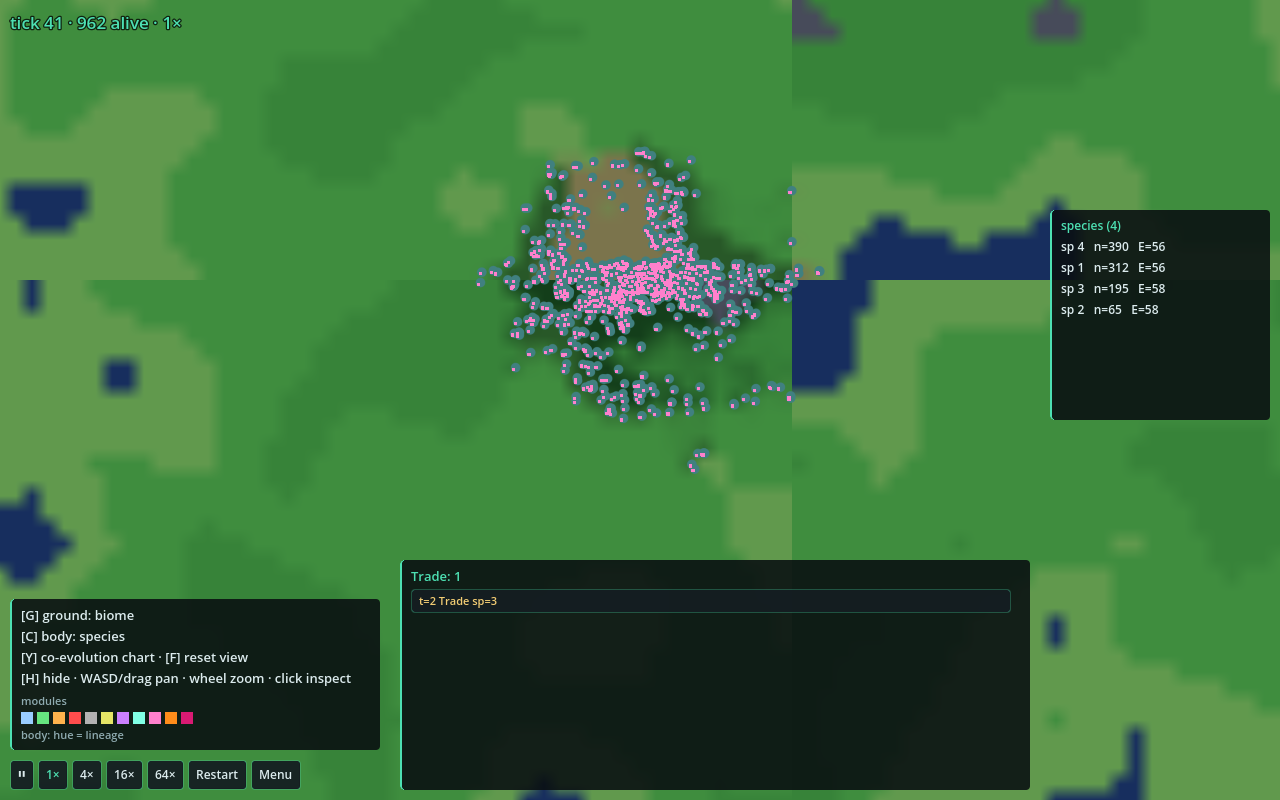
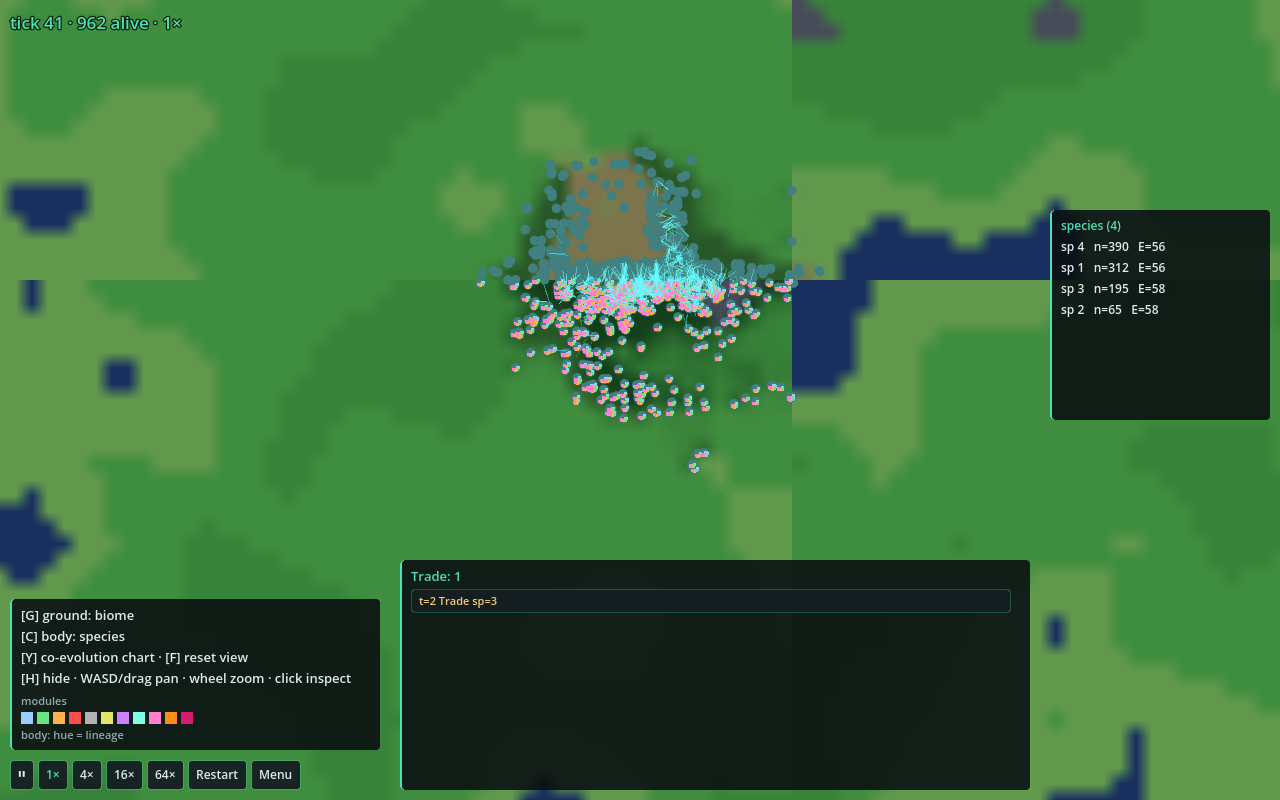
docs(gallery): trade-route captures for geographic-trade
Recapture the three geographic-trade shots with routes visible and add
a zoom-4 close-up of the border lanes at t=461. Document the routes
layer and that captures must run windowed (viewport readback after
frame_post_draw never completes on the headless dummy renderer).

Changed region(s): [[0.4062, 0.2188, 0.625, 0.5312]]

diff --git a/gallery/README.md b/gallery/README.md
@@ -8,7 +8,9 @@ exactly `ANABIOS_SHOT_TICKS + ANABIOS_SHOT_FRAMES (+1)` ticks — the Tick
 column below is the actual HUD tick in each shot. `ANABIOS_SEED` overrides
 the viewer's default seed (12345); geographic-trade is shot on its tuned
 scenario seed 424242 (its four-way terrain junction hub is seed-specific),
-the other scenarios on the viewer default.
+the other scenarios on the viewer default. Captures run windowed (not
+`--headless`): the harness reads the viewport texture after
+`frame_post_draw`, which never completes on the dummy renderer.
 
 ## geographic-trade (border-seeking terrain pull + marketplace trade reach)
 
@@ -16,14 +18,19 @@ Four goods species (Salt/Desert, Obsidian/Rock, Amber/Forest, Spice/Grass)
 spawn INTERMIXED in one cluster on a four-way terrain junction that straddles
 the torus seam at (948, 4); the `terrain_habitat` pull sorts them onto borders
 of their home terrain, where `TRADE_RANGE` 10.0 lets border neighbors
-transact. Capture env: `ANABIOS_SEED=424242 ANABIOS_CAM_X=948
-ANABIOS_CAM_Y=60 ANABIOS_CAM_ZOOM=2`. The ground and agent layers wrap across
-the seam, so the junction reads as one continuous landscape.
+transact. Successful swaps render as trade routes: thin links tinted by the
+initiating trader's hue, held on a 24-tick fading trail so recurring trades
+along species borders accumulate into visible lanes (thinner and dimmer than
+the 8-tick combat streaks). Capture env: `ANABIOS_SEED=424242
+ANABIOS_CAM_X=948 ANABIOS_CAM_Y=60 ANABIOS_CAM_ZOOM=2`. The ground and agent
+layers wrap across the seam, so the junction reads as one continuous
+landscape.
 
 | File | Tick | What you're seeing |
 |---|---|---|
-| geotrade-t041-mixed.png | 41 | Opening state: 962 agents of all four lineages intermixed in one swarm on the junction; the first cross-species `Trade` has already latched (t=2, sp3). |
+| geotrade-t041-mixed.png | 41 | Opening state: 962 agents of all four lineages intermixed in one swarm on the junction; the first cross-species `Trade` has already latched (t=2, sp3) and routes thread the swarm core. |
 | geotrade-t461-sorted.png | 461 | Sorting underway: the swarm has spread along the forest band and terrain borders; `DowryBirth: 47` and counting — dowry-gated reproduction running on traded goods. Population growing (1,002 alive). |
+| geotrade-t461-routes.png | 461 | Close-up (zoom 4) of the same tick: trade-route lanes lighting the species borders — each link is one cross-species swap, tinted by the initiating trader. |
 | geotrade-t868-economy.png | 868 | Mature border economy: `DowryBirth: 72`, `NichePartition: 10`; energy declining (E=25-42) as the ~900 agents press the junction's carrying capacity. |
 
 ## weapons-arena (new scenario: stalkers + pack hunters + fast hunters vs herds)